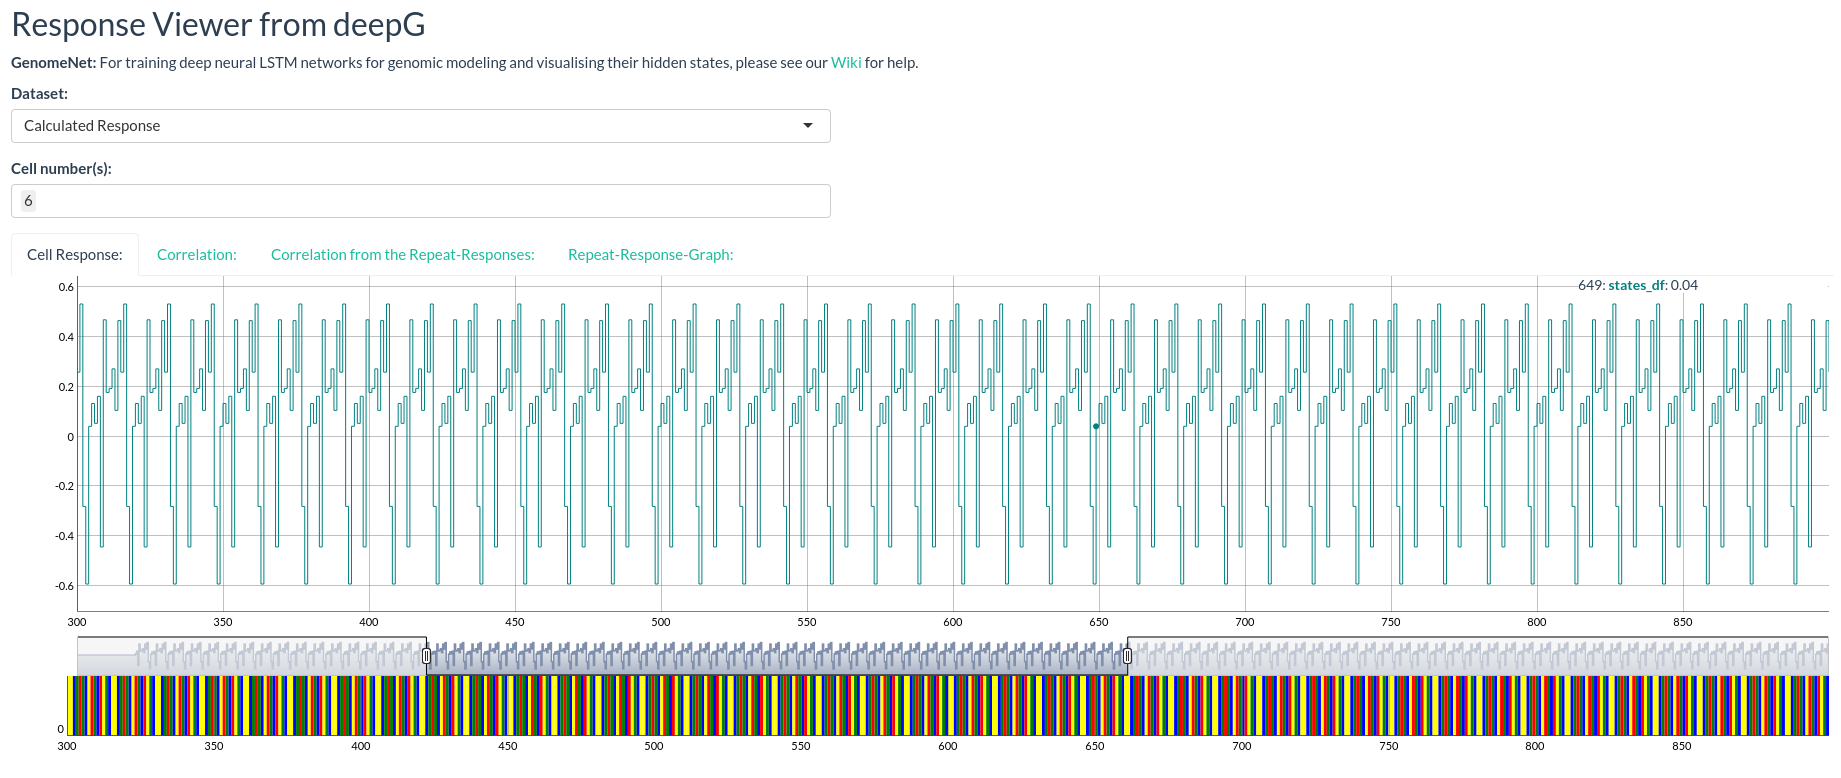
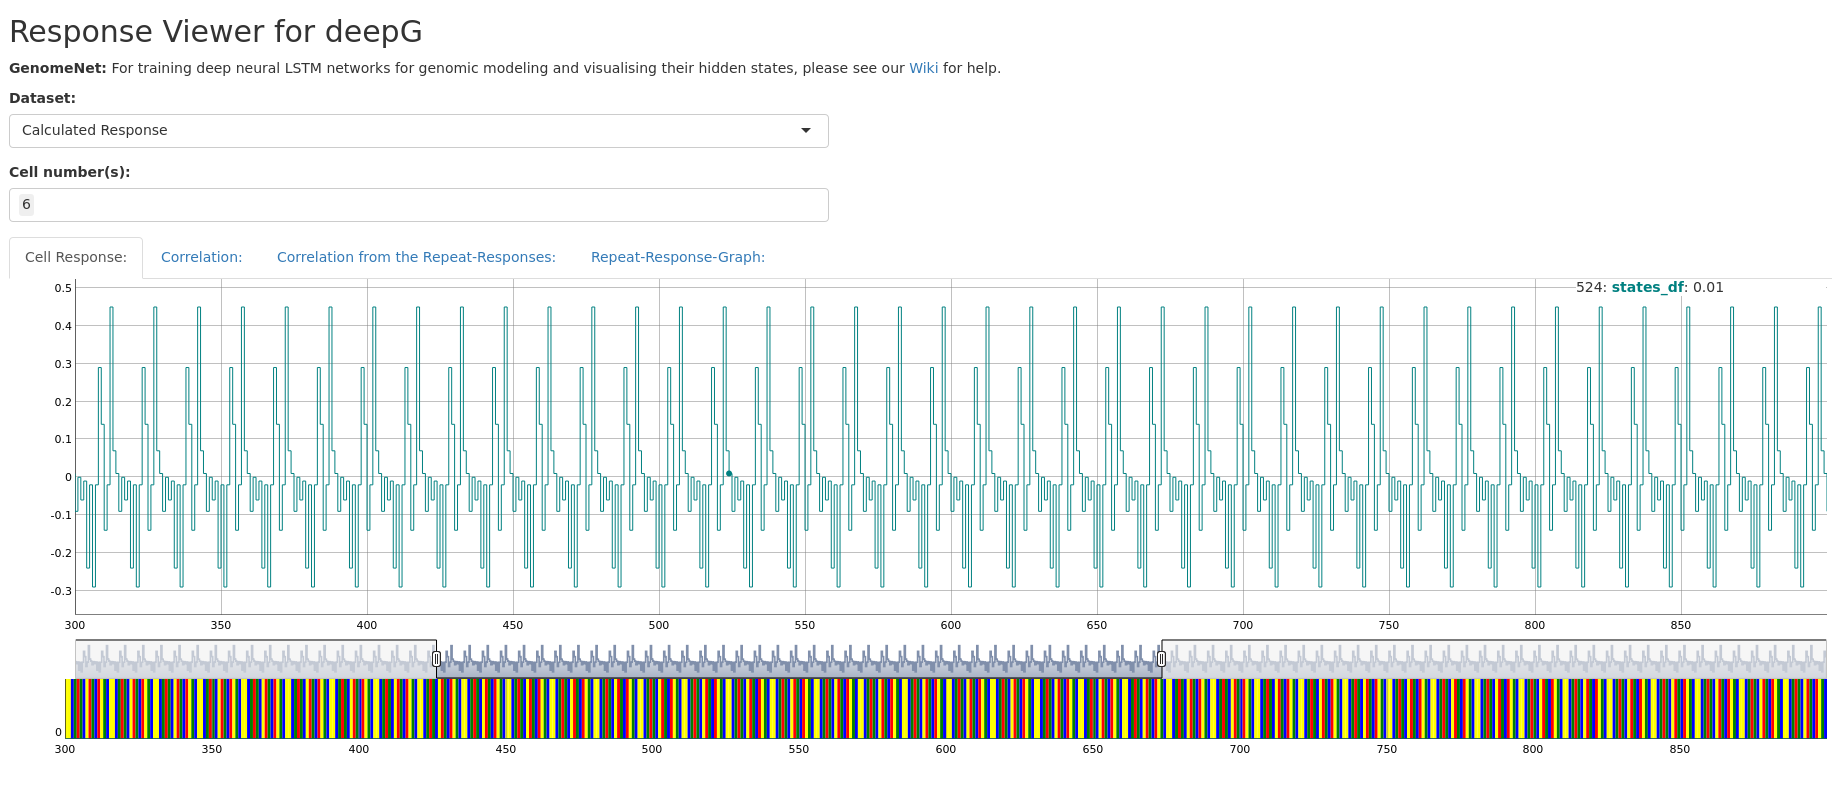
writeStatesToH5.R for the generation of the states

Changed region(s): [[0.0, 0.2776, 1.0, 0.9563], [0.0, 0.0, 0.5588, 0.2468]]

diff --git a/README.md b/README.md
@@ -2,7 +2,7 @@
 
 ## Introduction
 
-GenomeNet-responseViewer is an open-source interactive web app for visualising hidden states of LSTM networks trained on genomical dataset such as bacteria. The goal of the GenomeNet-responseViewer is to screen hidden states for unkown but common structural properties. The model behind GenomeNet-responseViewer is generated by the R library [deepG](https://github.com/hiddengenome/deepG) [In the future it will be integrated there]. The goal of GenomeNet-responseViewer is to provide a view to precalulated state response of a variety of bacterial strains and to provide tools for the detection of such hidden features.
+GenomeNet-responseViewer is an open-source interactive web app for visualising hidden states of LSTM networks trained on genomical dataset such as bacteria. The goal of the GenomeNet-responseViewer is to screen hidden states for unkown but common structural properties. The model behind GenomeNet-responseViewer is generated by the R library [deepG](https://github.com/hiddengenome/deepG). The goal of GenomeNet-responseViewer is to provide a view to precalulated state response of a variety of bacterial strains and to provide tools for the detection of such hidden features.
 
 ## Installation
 
@@ -25,7 +25,6 @@ Download the Zip-File and extract the files. Choose the directory and enter
 ```bash
 source("app.R")
 ```
-In the future this will be integrated into deepG. 
 
 ## Running GenomeNet-responseViewer
 
@@ -49,7 +48,7 @@ Please enter a genomic sequence (nucleotides) in the input area (or upload a fas
 
 ### Usage:
 
-The parameters `sample`,`model.path`,`start_position`,`end_position`,`batch.size`,`vocabulary`,`show_correlation` and `cell_number` is currently available, more parameters will be added over the time. An easy example is `visualizePrediction(strrep("ATGCGTA",1000))`
+An easy example is `visualizePrediction(strrep("ATGCGTA",1000))`. To use a fasta.file use the `fasta.path` and to load states generated with the package deepG use `states.path` and put `states` to TRUE.
 
 ```bash
 visualizePrediction(sample = strrep("ATGCGTACGTCAGTA", 100), model.path = "data/models/cpu_model.hdf5", vocabulary = c("l","a","g","c","t"), cell_number = 6, start_position = 300, end_position = 900)
